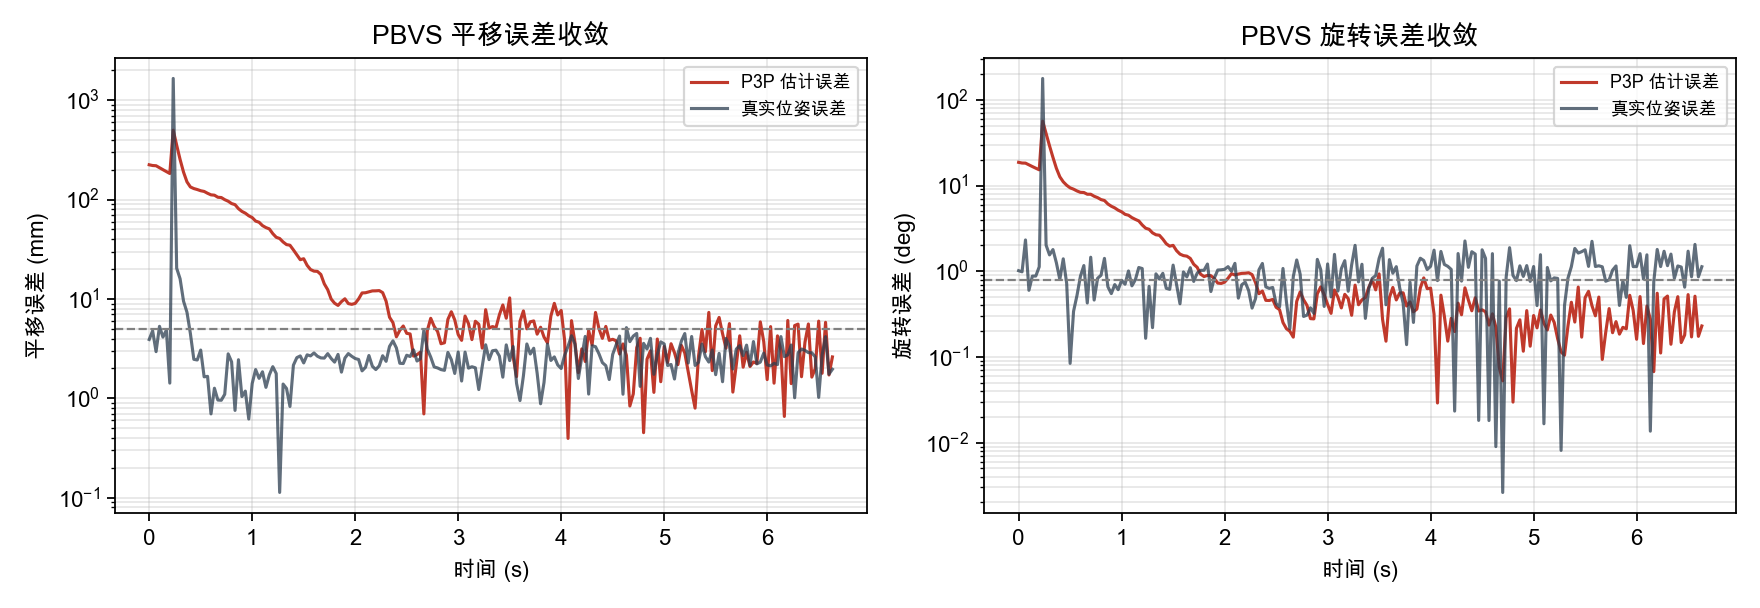
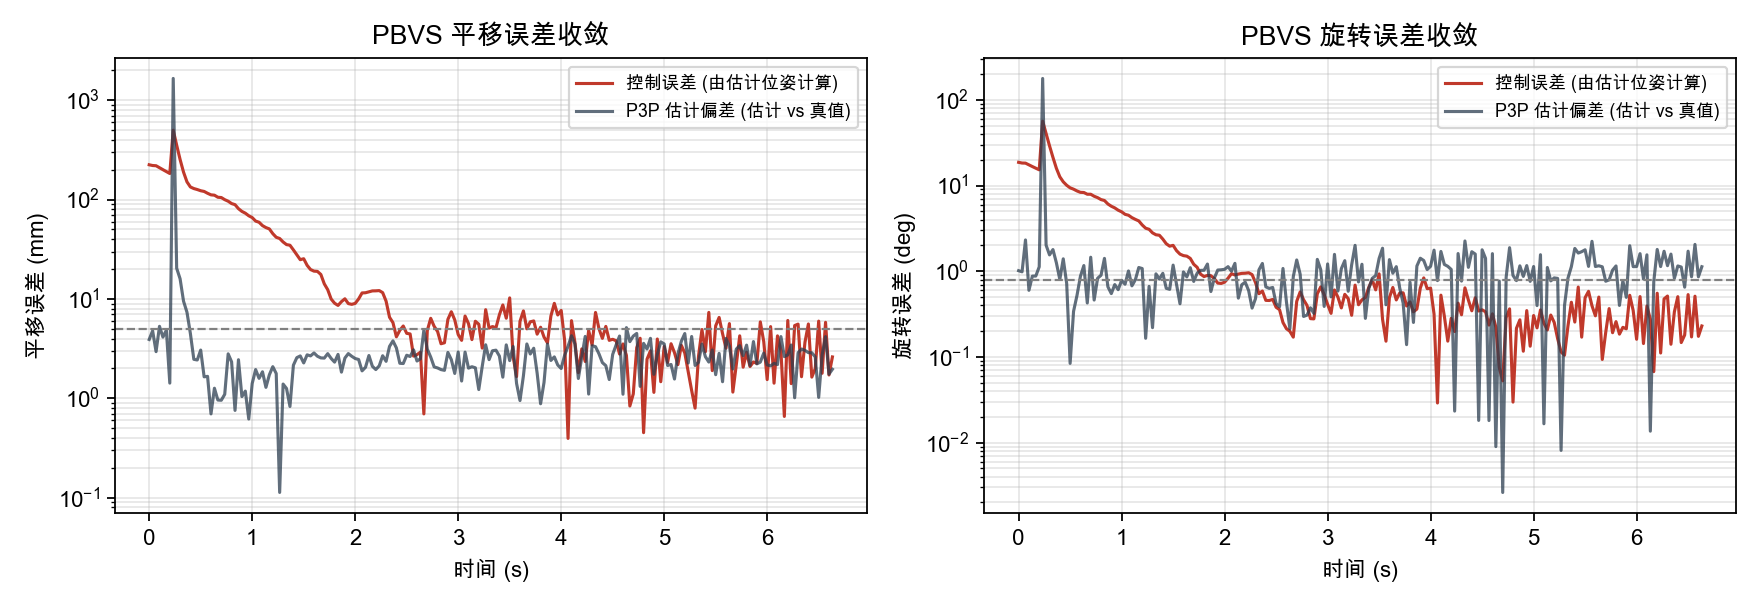
fix(fig): correct legend for PBVS plot (control error vs estimation bias)

Changed region(s): [[0.8125, 0.0938, 1.0, 0.2188], [0.3125, 0.0938, 0.5, 0.2188]]

diff --git a/src/analyze.py b/src/analyze.py
@@ -42,11 +42,11 @@ def plot_pbvs(d, path):
     m = np.isfinite(d["e_t_mm"]) & (d["detect"] > 0.5)
     fig, ax = plt.subplots(1, 2, figsize=(11, 3.8))
 
-    ax[0].semilogy(t[m], d["e_t_mm"][m], lw=1.4, color="#c0392b", label="P3P 估计误差")
+    ax[0].semilogy(t[m], d["e_t_mm"][m], lw=1.4, color="#c0392b", label="控制误差 (由估计位姿计算)")
     if "gt_t_mm" in d:
         g = np.isfinite(d["gt_t_mm"]) & (d["detect"] > 0.5)
         ax[0].semilogy(t[g], d["gt_t_mm"][g], lw=1.4, color="#2c3e50",
-                       alpha=0.75, label="真实位姿误差")
+                       alpha=0.75, label="P3P 估计偏差 (估计 vs 真值)")
     ax[0].axhline(5.0, ls="--", lw=1, color="gray")
     ax[0].set_xlabel("时间 (s)")
     ax[0].set_ylabel("平移误差 (mm)")
@@ -54,10 +54,11 @@ def plot_pbvs(d, path):
     ax[0].grid(alpha=0.3, which="both")
     ax[0].legend(fontsize=8)
 
-    ax[1].semilogy(t[m], d["e_R_deg"][m], lw=1.4, color="#c0392b", label="P3P 估计误差")
+    ax[1].semilogy(t[m], d["e_R_deg"][m], lw=1.4, color="#c0392b", label="控制误差 (由估计位姿计算)")
     if "gt_R_deg" in d:
+        g = np.isfinite(d["gt_R_deg"]) & (d["detect"] > 0.5)
         ax[1].semilogy(t[g], d["gt_R_deg"][g], lw=1.4, color="#2c3e50",
-                       alpha=0.75, label="真实位姿误差")
+                       alpha=0.75, label="P3P 估计偏差 (估计 vs 真值)")
     ax[1].axhline(0.8, ls="--", lw=1, color="gray")
     ax[1].set_xlabel("时间 (s)")
     ax[1].set_ylabel("旋转误差 (deg)")
